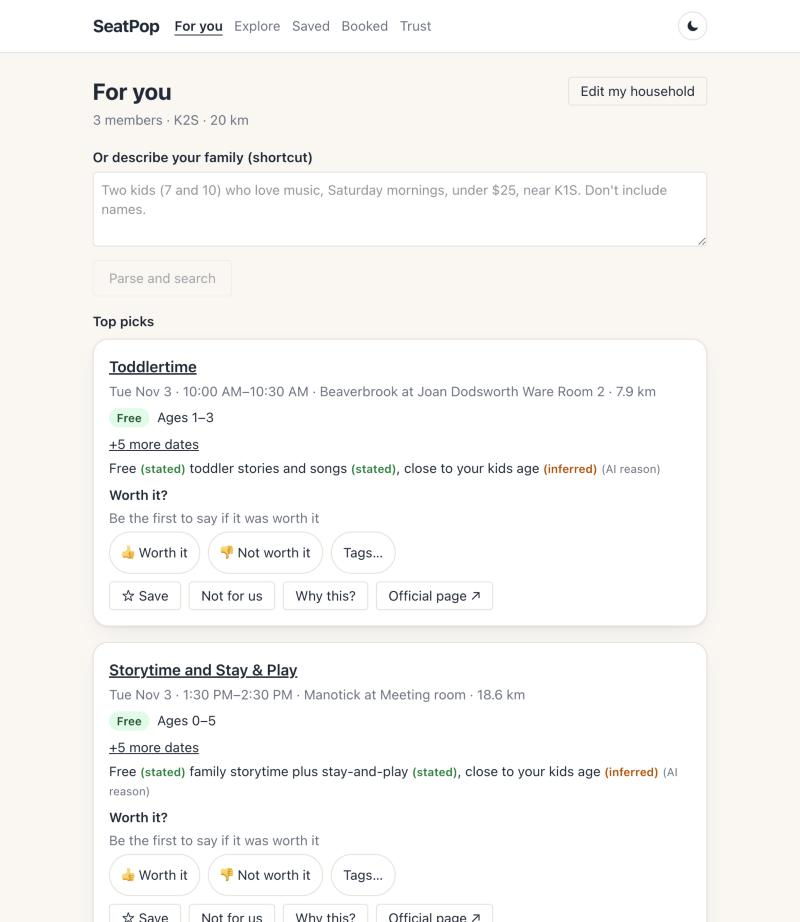
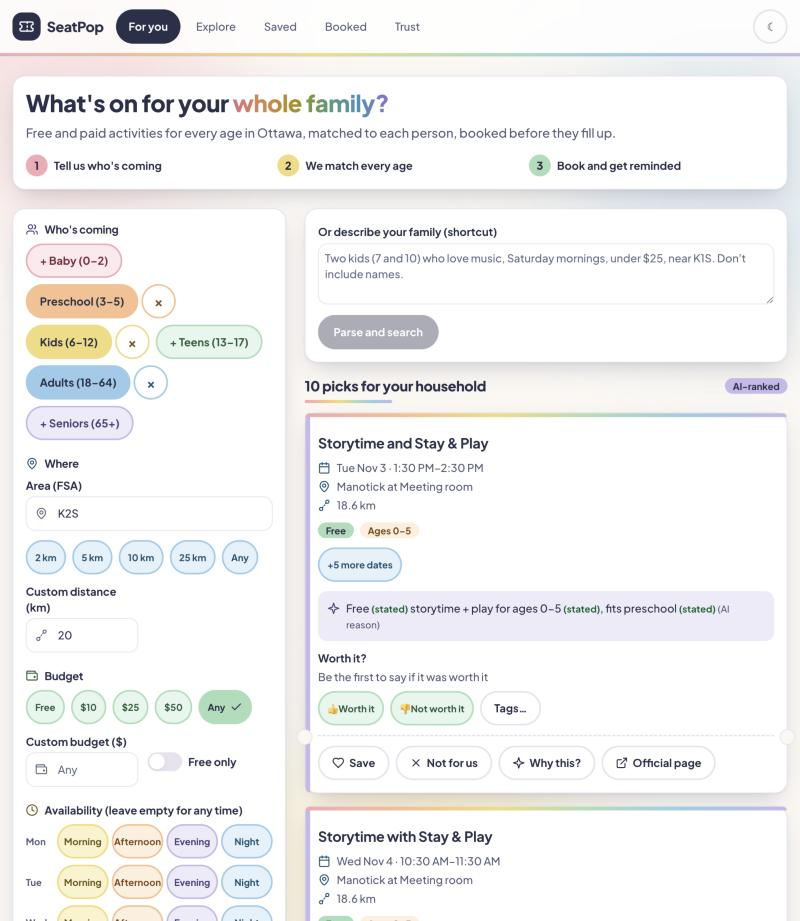
ui(F): polish
Contrast (fg on bg, AA 4.5:1, 68/68 pass, weakest 5.02): light ink/page 12.33 ink/surface 13.06 muted/page 6.27 muted/surface 6.64 faint/page 5.02 faint/surface 5.32 onPrimary/primary 13.06 ink/mist 11.66 stated/tint 6.05 stated/mist 6.37 inferred/tint 6.02 inferred/mist 6.33 muted/tint 5.63 muted/mist 5.93 error/surface 6.47 warn/surface 7.09 navy/blush 6.97 blush-ink/tint 7.90 blush-ink/surface 9.25 navy/peach 8.03 peach-ink/tint 6.55 peach-ink/surface 7.45 navy/lemon 9.51 lemon-ink/tint 6.47 lemon-ink/surface 7.23 navy/mint 8.60 mint-ink/tint 7.06 mint-ink/surface 7.91 navy/sky 7.55 sky-ink/tint 7.28 sky-ink/surface 8.37 navy/lavender 7.12 lavender-ink/tint 7.88 lavender-ink/surface 9.29; dark ink/page 15.18 ink/surface 13.89 muted/page 9.15 muted/surface 8.38 faint/page 6.79 faint/surface 6.21 onPrimary/primary 7.12 ink/mist 12.26 stated/tint 7.71 stated/mist 10.10 inferred/tint 7.51 inferred/mist 9.83 muted/tint 5.64 muted/mist 7.39 error/surface 5.81 warn/surface 9.63 navy/blush 6.97 blush-ink/tint 7.70 blush-ink/surface 11.39 navy/peach 8.03 peach-ink/tint 7.78 peach-ink/surface 11.87 navy/lemon 9.51 lemon-ink/tint 8.63 lemon-ink/surface 13.81 navy/mint 8.60 mint-ink/tint 8.50 mint-ink/surface 13.26 navy/sky 7.55 sky-ink/tint 7.97 sky-ink/surface 12.11 navy/lavender 7.12 lavender-ink/tint 7.80 lavender-ink/surface 11.57

Responsive 375/768/1024/1440 confirmed, no h-scroll; 8 redesign screenshots. Gates: typecheck, lint, 759/759 tests, next build green.

Changed region(s): [[0.0, 0.0912, 1.0, 1.0], [0.0, 0.0, 1.0, 0.0608], [0.4062, 0.2432, 0.9375, 0.304]]

diff --git a/apps/web/src/app/recommend/page.tsx b/apps/web/src/app/recommend/page.tsx
@@ -157,7 +157,7 @@ export default function RecommendPage() {
       />
       <div className="mt-2 flex gap-2">
         <button
-          className="rounded bg-primary px-4 py-2 text-sm font-semibold text-white disabled:opacity-40 dark:text-background"
+          className="rounded-full bg-primary px-4 text-sm font-semibold min-h-[44px] inline-flex items-center text-white disabled:opacity-40 dark:text-background"
           onClick={() => void parse()}
           disabled={busy !== null || text.trim() === ""}
         >
@@ -187,14 +187,14 @@ export default function RecommendPage() {
           </div>
           <div className="mt-3 flex gap-2">
             <button
-              className="rounded bg-primary px-4 py-2 text-sm font-semibold text-white disabled:opacity-40 dark:text-background"
+              className="rounded-full bg-primary px-4 text-sm font-semibold min-h-[44px] inline-flex items-center text-white disabled:opacity-40 dark:text-background"
               onClick={() => void recommend()}
               disabled={!canRecommend}
             >
               {busy === "recommend" ? "Searching…" : "Find activities"}
             </button>
             <button
-              className="rounded border border-line px-4 py-2 text-sm disabled:opacity-40"
+              className="rounded-full border-2 border-line px-4 text-sm font-semibold min-h-[44px] inline-flex items-center disabled:opacity-40"
               onClick={() => void save()}
               disabled={!canRecommend}
             >
@@ -202,14 +202,14 @@ export default function RecommendPage() {
             </button>
           </div>
           {prefs && prefs.members.length === 0 && (
-            <p className="mt-2 text-sm text-amber-700">
+            <p className="mt-2 text-sm text-amber-800">
               Add at least one member to search.
             </p>
           )}
         </div>
       )}
 
-      {notice !== "" && <p className="mt-4 text-sm text-amber-700">{notice}</p>}
+      {notice !== "" && <p className="mt-4 text-sm text-amber-800">{notice}</p>}
 
       {meta && meta.warnings.length > 0 && (
         <ul className="mt-4 list-disc pl-5 text-sm text-muted">
@@ -244,7 +244,7 @@ export default function RecommendPage() {
                   {` · ${item.price_label}`}
                 </p>
                 {item.age_flag && (
-                  <p className="mt-1 text-sm text-amber-700">{item.age_flag}</p>
+                  <p className="mt-1 text-sm text-amber-800">{item.age_flag}</p>
                 )}
                 <p className="mt-1 text-sm">
                   {item.reason}{" "}

diff --git a/apps/web/src/components/remind-me.tsx b/apps/web/src/components/remind-me.tsx
@@ -80,7 +80,7 @@ export default function RemindMe({ item }: RemindMeProps) {
           type="button"
           onClick={() => void remove()}
           disabled={busy}
-          className="mt-1 rounded border border-line px-3 py-1 disabled:opacity-40"
+          className="mt-1 inline-flex min-h-[44px] items-center rounded-full border-2 border-line px-4 text-sm font-semibold transition-colors duration-200 motion-reduce:transition-none disabled:opacity-40"
         >
           {busy ? "Deleting…" : "Delete reminder"}
         </button>
@@ -102,7 +102,7 @@ export default function RemindMe({ item }: RemindMeProps) {
             setFormOpen(true);
             setError("");
           }}
-          className="rounded border border-line px-3 py-1"
+          className="inline-flex min-h-[44px] items-center rounded-full border-2 border-line px-4 text-sm font-semibold transition-colors duration-200 motion-reduce:transition-none"
         >
           Remind me
         </button>
@@ -145,7 +145,7 @@ export default function RemindMe({ item }: RemindMeProps) {
         <button
           type="submit"
           disabled={busy || email.trim() === ""}
-          className="rounded bg-primary px-4 py-1 font-semibold text-white disabled:opacity-40 dark:text-background"
+          className="inline-flex min-h-[44px] items-center rounded-full bg-primary px-4 text-sm font-semibold text-white transition-colors duration-200 motion-reduce:transition-none disabled:opacity-40 dark:text-background"
         >
           {busy ? "Setting…" : "Set reminder"}
         </button>
@@ -156,7 +156,7 @@ export default function RemindMe({ item }: RemindMeProps) {
             setError("");
           }}
           disabled={busy}
-          className="rounded border border-line px-3 py-1 disabled:opacity-40"
+          className="inline-flex min-h-[44px] items-center rounded-full border-2 border-line px-4 text-sm font-semibold transition-colors duration-200 motion-reduce:transition-none disabled:opacity-40"
         >
           Cancel
         </button>

diff --git a/apps/web/src/app/page.tsx b/apps/web/src/app/page.tsx
@@ -337,7 +337,7 @@ export default function Home() {
                 type="button"
                 aria-expanded={showHidden}
                 onClick={() => setShowHidden((show) => !show)}
-                className="text-sm underline"
+                className="inline-flex min-h-[44px] items-center text-sm underline"
               >
                 {showHidden
                   ? "Hide hidden picks"
@@ -359,7 +359,7 @@ export default function Home() {
                       <button
                         type="button"
                         onClick={() => void unhide(item.event_id)}
-                        className="rounded border border-line px-2 py-0.5 text-xs"
+                        className="inline-flex min-h-[44px] items-center rounded-full border-2 border-line px-4 text-sm font-semibold"
                       >
                         Unhide
                       </button>

diff --git a/apps/web/tests/card-markup.test.ts b/apps/web/tests/card-markup.test.ts
@@ -62,7 +62,7 @@ describe("event card markup", () => {
     expect(CARD).toContain("bg-lavender-tint");
     expect(CARD).toContain("bg-mist");
     expect(CARD).toContain('name="sparkle"');
-    expect(CARD).toContain("text-green-700 dark:text-green-300");
+    expect(CARD).toContain("text-green-800 dark:text-green-300");
     expect(CARD).toContain("text-amber-800 dark:text-amber-300");
     expect(CARD).toContain('"(AI reason)"');
     expect(CARD).toContain('"(match)"');

diff --git a/apps/web/tests/shell-markup.test.ts b/apps/web/tests/shell-markup.test.ts
@@ -86,7 +86,7 @@ describe("nav and remaining shell markup", () => {
 
   it("sits home chrome and hidden rows on the surface tokens", () => {
     expect(HOME).toContain("border border-line bg-surface p-2 text-sm");
-    expect(HOME).toContain("rounded border border-line px-2 py-0.5 text-xs");
+    expect(HOME).toContain("min-h-[44px] items-center rounded-full border-2 border-line px-4");
   });
 
   it("fills the legacy commit buttons primary with dark-theme text", () => {

diff --git a/apps/web/src/app/booked/page.tsx b/apps/web/src/app/booked/page.tsx
@@ -206,7 +206,7 @@ export default function BookedPage() {
               value={feedUrl}
               aria-label="Family calendar feed URL"
               onFocus={(event) => event.target.select()}
-              className="w-full rounded-xl border border-line bg-surface p-2 text-xs"
+              className="min-h-[44px] w-full rounded-xl border border-line bg-surface p-2 text-xs"
             />
             <Button
               onClick={() => void copyFeed()}

diff --git a/apps/web/src/components/event-card.tsx b/apps/web/src/components/event-card.tsx
@@ -211,7 +211,7 @@ export default function EventCard({
                     key={index}
                     className={
                       part.mark === "stated"
-                        ? "text-xs font-semibold text-green-700 dark:text-green-300"
+                        ? "text-xs font-semibold text-green-800 dark:text-green-300"
                         : "text-xs font-semibold text-amber-800 dark:text-amber-300"
                     }
                   >

diff --git a/apps/web/tests/theme.test.ts b/apps/web/tests/theme.test.ts
@@ -99,7 +99,9 @@ describe("design tokens", () => {
 
   it("keeps a visible keyboard focus ring", () => {
     expect(css).toContain(":focus-visible");
-    expect(css).toContain("outline: 2px solid currentColor");
+    expect(css).toContain("outline: 2px solid #2b2f4a");
+    expect(css).toContain(".dark :focus-visible");
+    expect(css).toContain("outline-color: #c6b8ea");
   });
 
   it("wires the shell to the tokens with the brand font", () => {

diff --git a/apps/web/src/components/booking-checklist.tsx b/apps/web/src/components/booking-checklist.tsx
@@ -90,7 +90,7 @@ export default function BookingChecklist({ item }: BookingChecklistProps) {
               <div>
                 <label
                   htmlFor={`book-${item.event_id}-${step.id}`}
-                  className={done ? "line-through" : "font-bold"}
+                  className={`flex min-h-[44px] items-center ${done ? "line-through" : "font-bold"}`}
                 >
                   {step.title}
                 </label>

diff --git a/apps/web/src/components/site-nav.tsx b/apps/web/src/components/site-nav.tsx
@@ -20,7 +20,7 @@ function isActiveLink(href: string, pathname: string): boolean {
 
 function Wordmark() {
   return (
-    <Link href="/" className="flex items-center gap-2">
+    <Link href="/" className="flex min-h-[44px] items-center gap-2">
       <span className="flex h-9 w-9 items-center justify-center rounded-xl bg-navy text-white dark:bg-lavender-solid dark:text-navy">
         <Icon name="ticket" className="h-5 w-5" />
       </span>

diff --git a/apps/web/src/components/booking-capture.tsx b/apps/web/src/components/booking-capture.tsx
@@ -231,7 +231,7 @@ export default function BookingCapture({ item }: BookingCaptureProps) {
           </p>
           {parsed.mismatch && (
             <p
-              className="mt-1 font-semibold text-amber-700 dark:text-amber-400"
+              className="mt-1 font-semibold text-amber-800 dark:text-amber-400"
               role="alert"
             >
               The pasted date does not match this event — save only if you

diff --git a/apps/web/src/app/saved/page.tsx b/apps/web/src/app/saved/page.tsx
@@ -107,7 +107,7 @@ export default function SavedPage() {
         <Badge tone="navy">{saved.length + apiOnly.length}</Badge>
       </div>
       {syncFailed && (
-        <p className="mt-2 text-sm text-amber-700 dark:text-amber-400">
+        <p className="mt-2 text-sm font-semibold text-amber-800 dark:text-amber-400">
           Couldn&apos;t load synced saves — showing this device.
         </p>
       )}
